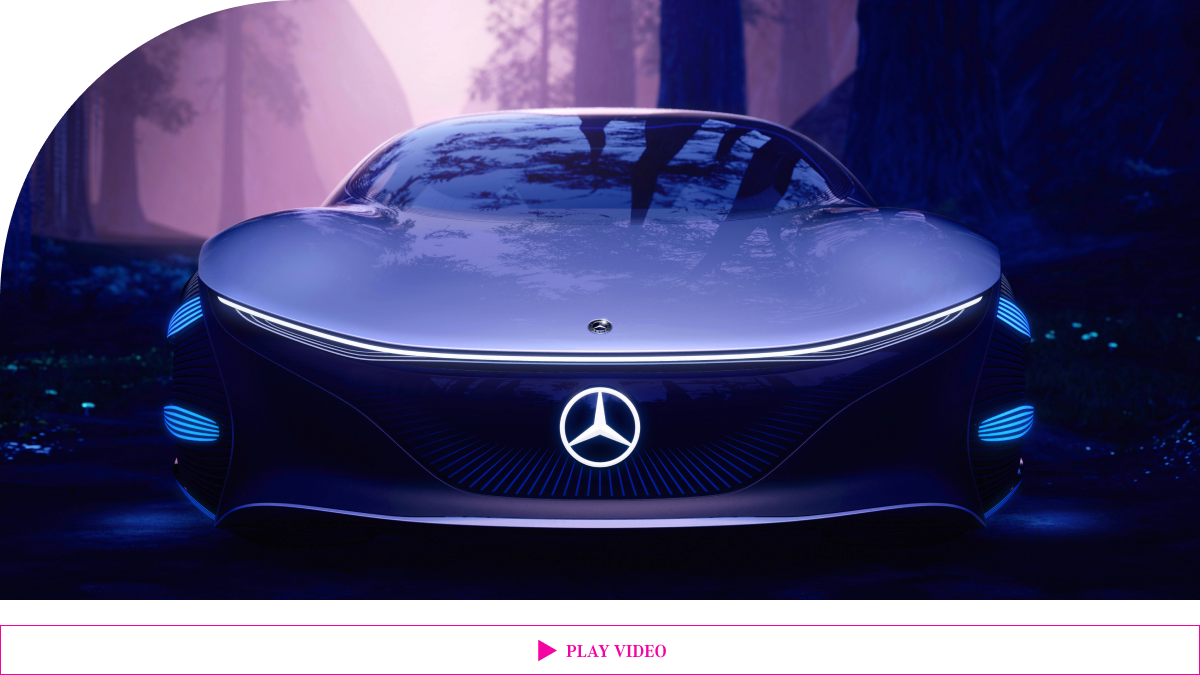
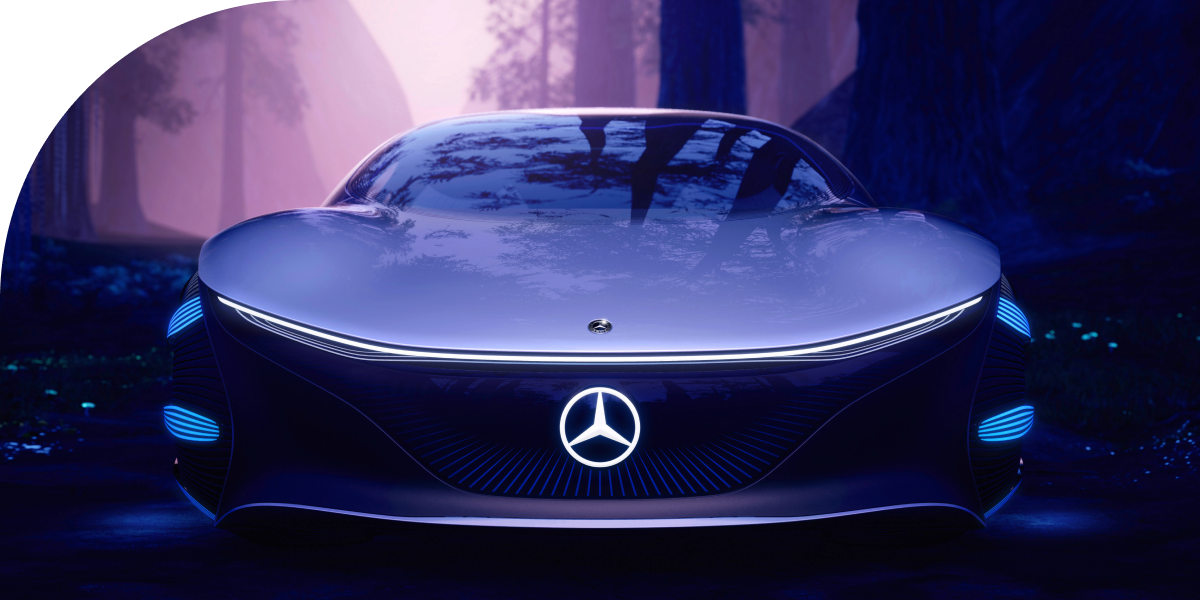
video css svg

diff --git a/css/style.css b/css/style.css
@@ -188,3 +188,44 @@ ul {
     color: #53a1cb;
     border: 1px solid #53a1cb;
 }
+
+.video {
+    margin-bottom: 150px;
+}
+
+.video__img {
+    margin-bottom: 25px;
+}
+
+.video__btn {
+    display: flex;
+    justify-content: center;
+    align-items: flex-end;
+    gap: 10px;
+    width: 100%;
+    font-size: 18px;
+    line-height: 120%;
+    color: #f402a2;
+    font-family: 'Corporate-A-Bold';
+    text-transform: uppercase;
+    padding: 14px;
+    border: 1px solid #f402a2;
+    transition: all .3s;
+}
+
+.video__btn span {
+    padding-top: 2px;
+}
+
+.video__btn:hover {
+    color: #53a1cb;
+    border: 1px solid #53a1cb;
+}
+
+.video__btn path {
+    transition: all .3s;
+}
+
+.video__btn:hover path {
+    fill:#53a1cb;
+}

diff --git a/index.html b/index.html
@@ -101,6 +101,18 @@
       </div>
     </div>
   </section>
+  <div class="video">
+    <div class="container">
+      <img class="video__img" src="images/video.png" alt="">
+      <button class="video__btn">
+        <svg width="19" height="23" viewBox="0 0 19 23" fill="none" xmlns="http://www.w3.org/2000/svg">
+          <path d="M19 11.5L0.25 22.3253L0.25 0.674683L1911.52" fill="#F402A2">
+        </svg>
+       <span> PLAY VIDEO</span>
+      </button>
+    </div>
+
+  </div>
 
   <footer class="footer">
     <div class="container">
